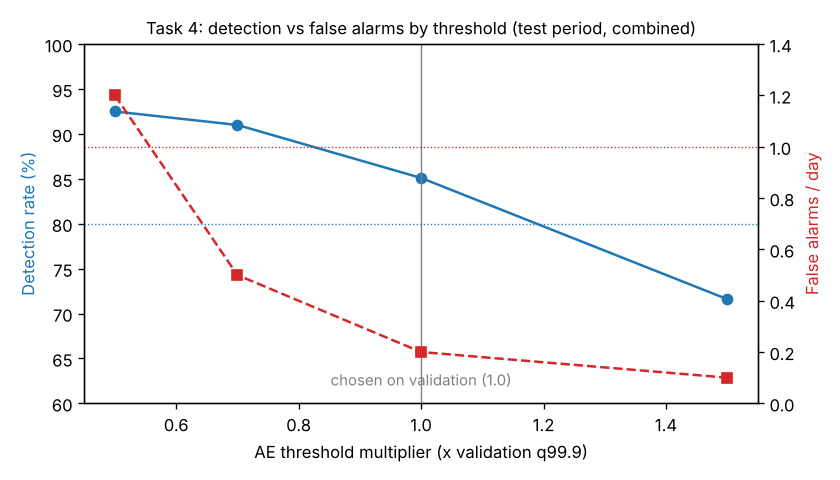
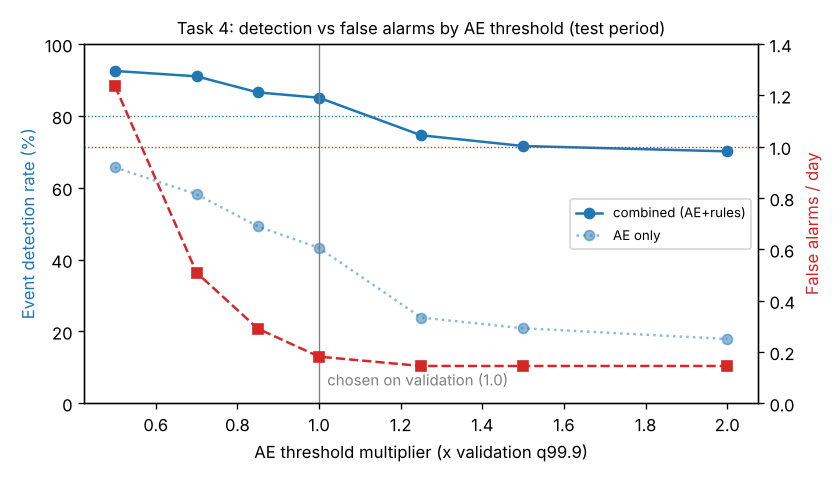
Report: hour-of-day CO2 pattern graph, schedule reaction, task 3 error-by-hour graph, task 5 confusion matrices, task 7 batch 4
Claude-Session: https://claude.ai/code/session_01LSi8wfovKasWTUepXz2CGN

diff --git a/docs/REPORT.md b/docs/REPORT.md
@@ -64,6 +64,13 @@
 
 전문: [task2-diagnosis.md](task2-diagnosis.md). 핵심만:
 
+![평일 시간대별 평균 CO₂](figures/pattern_co2.png)
+
+*그림: 평일 시간대별 평균 CO₂(KST, 2025-09-15 ~ 2026-10-20 전체, 5분 칸). 사람이 있으면 오르고 없으면 내려간다: 09시 전후 상승(출근·수업 시작), 12~13시 하강(점심), 13시 이후 재상승, 18시 이후 퇴실 하강. 온도 그림은 [figures/pattern_temperature.png](figures/pattern_temperature.png).*
+
+- 일정 변화에 대한 CO₂ 반응(시간표가 없어 '그날 새벽보다 100ppm 오른 첫 시각'으로 봄): 실습실 평일 273일 중 248일 상승, 중앙값 08:45~08:50. 사무실 233일 중 220일, 08:55~09:00. 회의실 273일 중 243일, 09:25~09:37. 실습실은 9시 수업 기준 **10~15분 전부터** 오르기 시작한다(입실이 수업보다 먼저). 점심은 12시부터 약 1시간 동안 평균 300ppm 내려가고, 회의실은 13시 이후 오후가 오전보다 높다(오후 회의가 더 길거나 많음) [가능성 높음].
+- 일정과 어긋나는 날: 오르지 않은 평일은 대부분 공휴일(설·추석 연휴, 대체공휴일, 지방선거일)이고, 실습실만 9/23·9/28~30 에 비어 있었다(이유 미확인). 회의실은 공휴일이 아닌 날(10/14, 10/19)에도 빈다.
+
 | 공간 | 60분 CO₂ MAE, 현재값 유지 | 1시간 평균 | 어제 같은 시각 | 과제 3 통과선 |
 |---|---|---|---|---|
 | 실습실 | 24.4 | 31.8 | 91.3 | 17.1 |
@@ -95,6 +102,10 @@
 
 공간별 60분 CO₂: 사무실 26.3%, 회의실 21.5%, 실습실 20.8% 감소.
 
+![시각별 60분 CO₂ 오차](figures/task3_err_by_hour.png)
+
+*그림: 시각별 60분 CO₂ MAE(시험 기간). 오차가 가장 큰 시각은 실습실 08시(GRU 87.7 vs 현재값 유지 92.3ppm), 회의실 10시(92.0 vs 98.1)와 16시(89.6 vs 86.2), 사무실 18시(65.5 vs 103.0). 즉 **사람이 들어오기 직전**과 회의가 시작하는 시각이다. 사무실 퇴실(18시)은 GRU 가 크게 이기는데, 퇴실 시각은 규칙적이라 달력만으로 맞힐 수 있기 때문이다.*
+
 해석
 - [확실] 30% 를 못 넘은 가장 큰 원인은 **'곧 사람이 들어온다'는 정보가 입력에 없다**는 것이다. 오차가 수업·회의 시작 직전에 몰리고, 과거 센서값에는 그 신호가 없다.
 - [확실] 쉬는 날에는 GRU 가 현재값 유지보다 나빴다(1차 실행, 실습실 11.6 vs 4.9ppm). 공휴일 표시를 넣고, 검증 기간 선택으로 실습실·회의실은 GRU 0.75 + 현재값 0.25 를 쓰게 되었다.
@@ -122,7 +133,7 @@
 
 ![과제 4 임계값 배율에 따른 탐지율·헛경보](figures/task4_threshold.png)
 
-*그림: 배율을 낮추면 탐지율과 헛경보가 함께 오른다. 검증 기간 예산(하루 0.4회)으로 고른 1.0 이 두 기준(80%, 1회/일)을 모두 만족하는 구간 안에 있다.*
+*그림: 배율 0.5~2.0 의 8개 점(sweep.csv). 배율을 낮추면 탐지율과 헛경보가 함께 오른다. 모델만의 탐지율(점선)은 1.25 이상에서 24% 아래로 떨어져 규칙이 거의 다 맡게 된다. 검증 기간 예산(하루 0.4회)으로 고른 1.0 이 두 기준(80%, 1회/일)을 모두 만족하는 구간 안에 있다.*
 
 해석
 - 모델이 못 잡는 것: **값 고정**(2/16). 정상 범위의 값에서 멈추면 1시간 창의 모양이 '조용한 정상'과 같아 복원 오차가 작다. 규칙(같은 값이 이어짐)이 맡는다.
@@ -145,7 +156,17 @@
 | 규칙 CO₂ ≥ 850 | 0.845 | 0.151 | 0.614 |
 | 규칙 CO₂ ≥ 730(검증 기간에서 고름) | 0.935 | 0.077 | 0.537 |
 
-*조건: 실데이터, 시험 기간 2026-09-22 ~ 10-20, 이미 1000ppm 이상인 시각 제외. 임계값·입력 선택은 검증 기간만 사용. 혼동 행렬은 아래.*
+*조건: 실데이터, 시험 기간 2026-09-22 ~ 10-20, 5분 칸 22,067개(실습실·사무실·회의실), 이미 1000ppm 이상인 시각 제외. 임계값·입력 선택은 검증 기간만 사용.*
+
+혼동 행렬 (행 = 실제, 열 = 판정; 양성 = 30분 안에 1000ppm 초과, 245칸 = 1.11%)
+
+| MLP(채택) | 경보 | 경보 없음 | | 규칙 CO₂ ≥ 850 | 경보 | 경보 없음 |
+|---|---|---|---|---|---|---|
+| **실제 양성** | 222 | 23 | | **실제 양성** | 207 | 38 |
+| **실제 음성** | 1,329 | 20,493 | | **실제 음성** | 1,165 | 20,657 |
+
+- 가장 많이 헷갈리는 칸은 둘 다 '실제 음성인데 경보'(헛경보 1,329 vs 1,165)다. 정밀도 14~15%: 경보 7번 중 6번은 넘지 않는다. '항상 아님'의 정확도가 98.9% 로 가장 높게 나오므로 정확도는 지표로 쓸 수 없다.
+- 하루·일주일 전 입력 모델은 헛경보 972, 놓침 32 로 두 모델 중 헛경보가 적지만(macro-F1 0.637), 검증 기간에서 졌기 때문에 채택하지 않았다.
 - [확실] 재현율은 통과, macro-F1 은 규칙보다 0.006 낮아 미달.
 - 하루·일주일 전 입력 모델이 시험 기간에 규칙을 이기지만, 검증 기간 선택(0.767 vs 0.772)에서 졌으므로 채택하지 않았다. **시험 결과를 보고 바꾸면 누수**이고, 차이도 시험 기간 표본 변동 범위 안이다 [가능성 높음].
 - 가장 많이 틀린 경우: 헛경보는 실습실 9~14시(수업 중 850~1000ppm 을 오래 유지하다 넘지 않음), 놓친 경보는 회의실 10·13·14시(회의 시작 직후 빠르게 오름). 둘 다 '곧 사람이 늘어난다/줄어든다'는 일정 정보가 없어서 생긴다.
@@ -173,12 +194,14 @@
 
 | 모델 | PyTorch CPU | ONNX Runtime CPU | TensorRT FP16 (GPU) | 차이(FP16, PyTorch 기준) |
 |---|---|---|---|---|
-| GRU | 17.4 ms | **0.21 ms** | 0.75 ms | CO₂ 최대 0.462ppm, 평균 0.028 |
-| 오토인코더 | 0.70 ms | **0.025 ms** | 0.066 ms | 판정 뒤집힘 0% |
-| 환기 MLP | 0.54 ms | **0.041 ms** | 0.064 ms | 판정 뒤집힘 0% |
+| GRU | 17.4 ms (p95 67.5) | **0.21 ms** (p95 0.23) | 0.75 ms | CO₂ 최대 0.462ppm, 평균 0.028 |
+| 오토인코더 | 0.70 ms (p95 0.83) | **0.025 ms** (p95 0.026) | 0.066 ms | 판정 뒤집힘 0% |
+| 환기 MLP | 0.54 ms (p95 1.50) | **0.041 ms** (p95 0.025) | 0.064 ms | 판정 뒤집힘 0% |
+
+배치 4(네 공간 한꺼번에, CPU): GRU PyTorch 13.6 ms(p95 42.7) / ONNX Runtime 0.52 ms(p95 0.54), 오토인코더 0.64 / 0.027 ms, 환기 MLP 0.46 / 0.025 ms. 메모리(RSS)는 PyTorch 696MB, ONNX Runtime 715MB 로 거의 같다(둘 다 Python 프로세스 자체가 대부분). 원본: [figures/raw/task7/latency_cpu.csv](figures/raw/task7/latency_cpu.csv).
 
 *조건: 보드 Jetson Orin Nano Super, 전력 모드 MAXN_SUPER, 클럭 고정 안 함, 배치 1. 워밍업·반복 횟수는 아래 줄. 입력은 시험 기간 실데이터.*
-배치 1, 평균(배치 4 는 docs/figures/raw/task7 의 원본 CSV). PyTorch GPU 는 측정하지 못했다: 분석 이미지가 CPU 전용 PyTorch 라 GPU 실행은 TensorRT 로만 쟀다. 조건: 워밍업 50회 + 500회(CPU), trtexec 워밍업 2초 + 1000회(GPU, 입출력 복사 포함). 대기 전력 VDD_IN 6.8W, TensorRT 실행 중 7.2~7.8W. 2차 측정값(보드가 덜 바쁠 때). 1차에는 PyTorch GRU 가 104ms 로 부하에 크게 흔들렸다.
+배치 1, 평균. PyTorch GPU 는 측정하지 못했다: 분석 이미지가 CPU 전용 PyTorch 라 GPU 실행은 TensorRT 로만 쟀다. 조건: 워밍업 50회 + 500회(CPU), trtexec 워밍업 2초 + 1000회(GPU, 입출력 복사 포함). 대기 전력 VDD_IN 6.8W, TensorRT 실행 중 7.2~7.8W. 2차 측정값(보드가 덜 바쁠 때). 1차에는 PyTorch GRU 가 104ms 로 부하에 크게 흔들렸다.
 
 결론
 - 이 크기 모델에서는 **ONNX Runtime CPU 가 가장 빠르다**. TensorRT 는 GPU 실행·복사 비용이 계산보다 커서 오히려 느리다.
@@ -208,6 +231,10 @@
 - 경보는 공간마다 '마지막 값 + 10분'에 켜진다. 센서 주기가 다른 회의실이 3분 먼저 울린 이유다.
 - **찾은 문제**: 끊긴 동안 실습실 `anomaly:temperature` 헛경보가 났다. 오토인코더의 1시간 창에 빈 칸·메운 값이 섞여 복원 오차가 커졌기 때문이다. → 끊긴 동안과 복구 뒤 1시간(창이 다시 찰 때까지)은 이상 판정을 멈추고 `anomaly.paused=true` 로 알리게 고쳤다(a33ebca, 다음 재시작 때 반영).
 - 창고 data_gap 은 시험과 무관하게 계속 켜져 있다. 창고 센서는 시험 기간 전부터 값이 없다.
+
+## 원본 자료
+
+보드에서 만든 결과 파일 원본은 [figures/raw/](figures/raw/) 에 과제별로 있다(report.md, 성적표 CSV, 임계값·규칙 기준 JSON). 발표 원고는 [PRESENTATION.md](PRESENTATION.md).
 
 ## 한계
 
